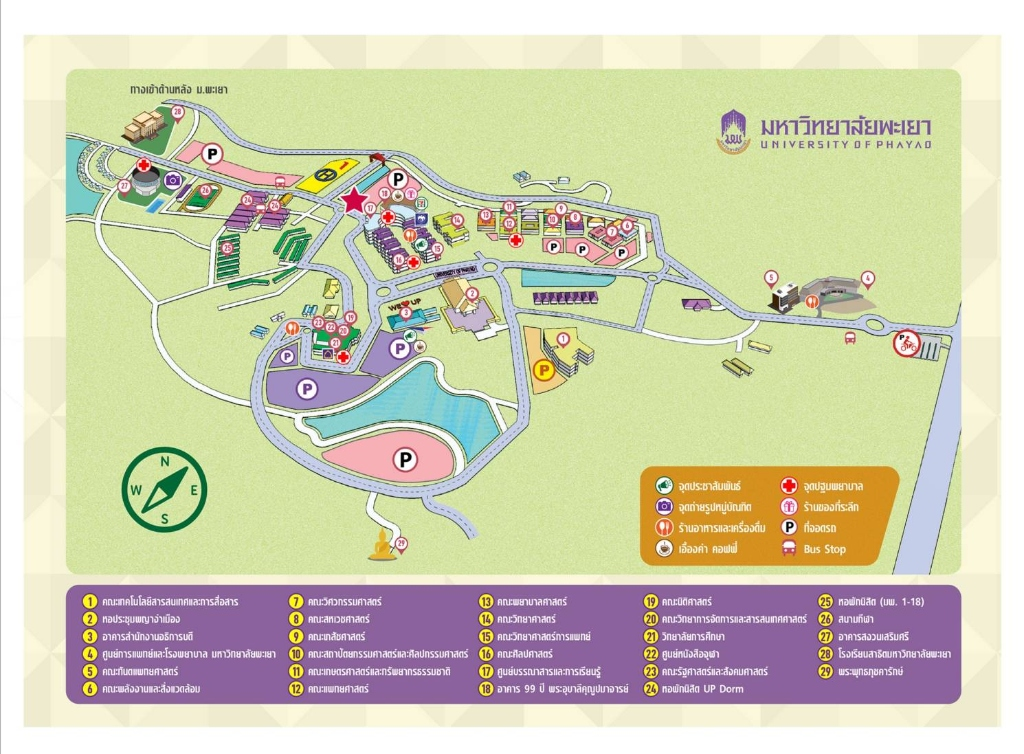
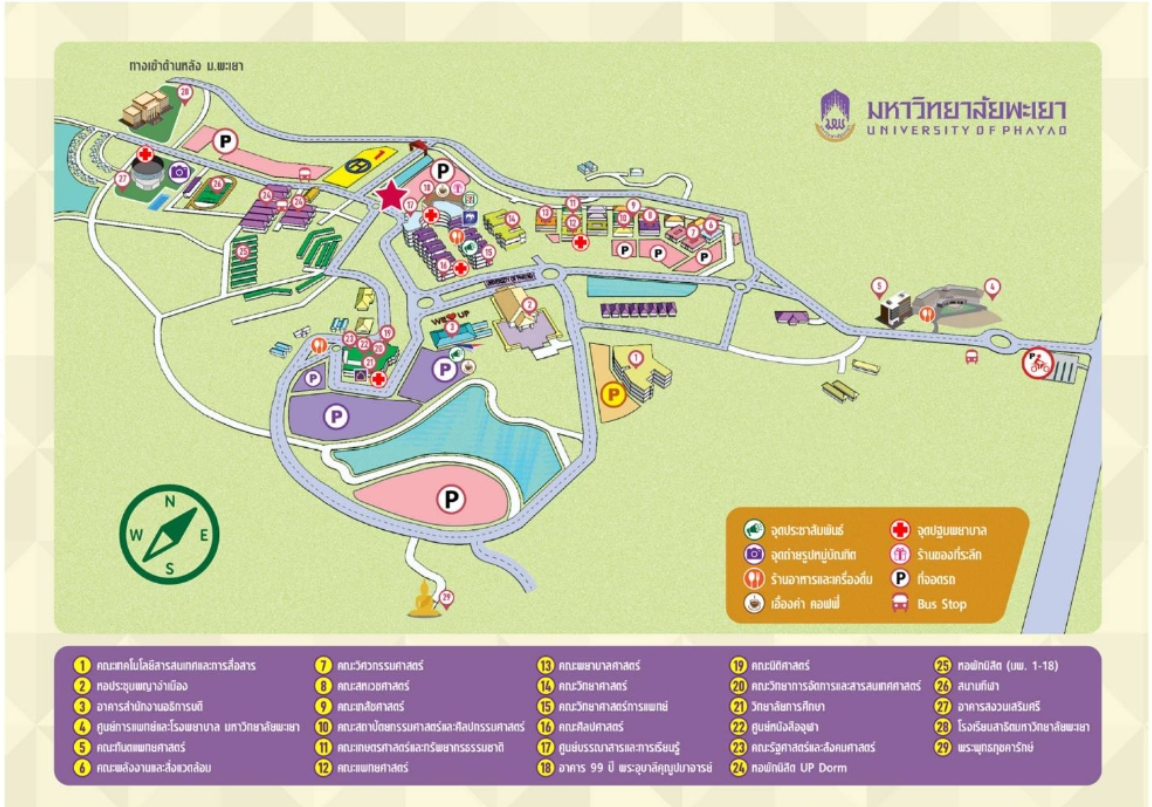
feat: add campus map image + add gate 3 keywords + fix admin map preview URL

diff --git a/up_voice_admin_dashboard/src/pages/super-admin/LLMSettings.jsx b/up_voice_admin_dashboard/src/pages/super-admin/LLMSettings.jsx
@@ -3,6 +3,13 @@ import { fetchLLMSettings, updateLLMSettings } from '../../services/llmSettingSe
 import api from '../../services/api';
 import { Bot, Plus, Trash2, Save, AlertTriangle, Info, Sliders, Zap, CheckCircle2, MessageSquare, ShieldAlert, MapPin, Compass, Upload, Image } from 'lucide-react';
 
+const API_ROOT = (import.meta.env.VITE_API_URL || 'https://university-social-listening-platform.onrender.com/api/v1').replace(/\/api\/v1\/?$/, '');
+const toAbsoluteUrl = (url) => {
+  if (!url) return '';
+  if (url.startsWith('http://') || url.startsWith('https://')) return url;
+  return `${API_ROOT}${url.startsWith('/') ? '' : '/'}${url}`;
+};
+
 // ── Default empty state ─────────────────────────────────────────
 const DEFAULT_SETTINGS = {
   is_auto_ban_enabled: true,
@@ -455,11 +462,11 @@ const LLMSettings = () => {
                     <div className="w-full md:w-48 h-32 bg-slate-200 rounded-xl overflow-hidden border border-slate-300 relative group flex items-center justify-center">
                       {settings.default_map_image_url ? (
                         <img
-                          src={settings.default_map_image_url.startsWith('http') ? settings.default_map_image_url : `https://university-social-listening-platform.onrender.com${settings.default_map_image_url}`}
+                          src={toAbsoluteUrl(settings.default_map_image_url)}
                           alt="Campus Map Preview"
                           className="w-full h-full object-cover"
                           onError={(e) => {
-                            e.currentTarget.src = 'https://university-social-listening-platform.onrender.com/static/campus_map.jpg';
+                            e.currentTarget.src = toAbsoluteUrl('/static/campus_map.jpg');
                           }}
                         />
                       ) : (

diff --git a/up_voice_public_web/src/components/AIChatWidget.tsx b/up_voice_public_web/src/components/AIChatWidget.tsx
@@ -25,6 +25,19 @@ const LOCATION_KEYWORDS = [
   'เรียนรวม',
   'บรรยายรวม',
   'อาคารบรรยายรวม',
+  'ประตู',
+  'ประตู1',
+  'ประตู2',
+  'ประตู3',
+  'ประตู 1',
+  'ประตู 2',
+  'ประตู 3',
+  'ประตูสาม',
+  'ประตูสอง',
+  'ประตูหนึ่ง',
+  'gate 1',
+  'gate 2',
+  'gate 3',
   'ict',
   'ไอซีที',
   'สำนัก',

diff --git a/university_social_listening/app/routers/settings.py b/university_social_listening/app/routers/settings.py
@@ -24,7 +24,9 @@ router = APIRouter()
 DEFAULT_MAP_KEYWORDS = [
     "อยู่ไหน", "อยู่ตรงไหน", "ไปยังไง", "ไปยังไงได้บ้าง", "ตั้งอยู่ตรงไหน", 
     "ไปอย่างไร", "ทางไหน", "ที่ไหน", "เส้นทาง", "ลงตรงไหน", "ขึ้นรถตรงไหน", 
-    "ประตู", "ตึก", "อาคาร", "คณะ", "หอพัก", "แผนผัง", "แผนที่", "ส่งเอกสาร",
+    "ประตู", "ประตู1", "ประตู2", "ประตู3", "ประตู 1", "ประตู 2", "ประตู 3",
+    "ประตูหนึ่ง", "ประตูสอง", "ประตูสาม", "gate 1", "gate 2", "gate 3",
+    "ตึก", "อาคาร", "คณะ", "หอพัก", "แผนผัง", "แผนที่", "ส่งเอกสาร",
     "สงวน", "ict", "ไอซีที", "สาธิต", "อธิการ", "พญางำเมือง", "วิทย์", "วิศวะ",
     "พยาบาล", "เภสัช", "แพทยศาสตร์", "นิติ", "ศิลปศาสตร์", "วิทยาการจัดการ",
     "สหเวช", "ทันตะ", "เกษตร", "ศูนย์การแพทย์", "รพ.มพ", "หอสมุด", "อุบาลี",
